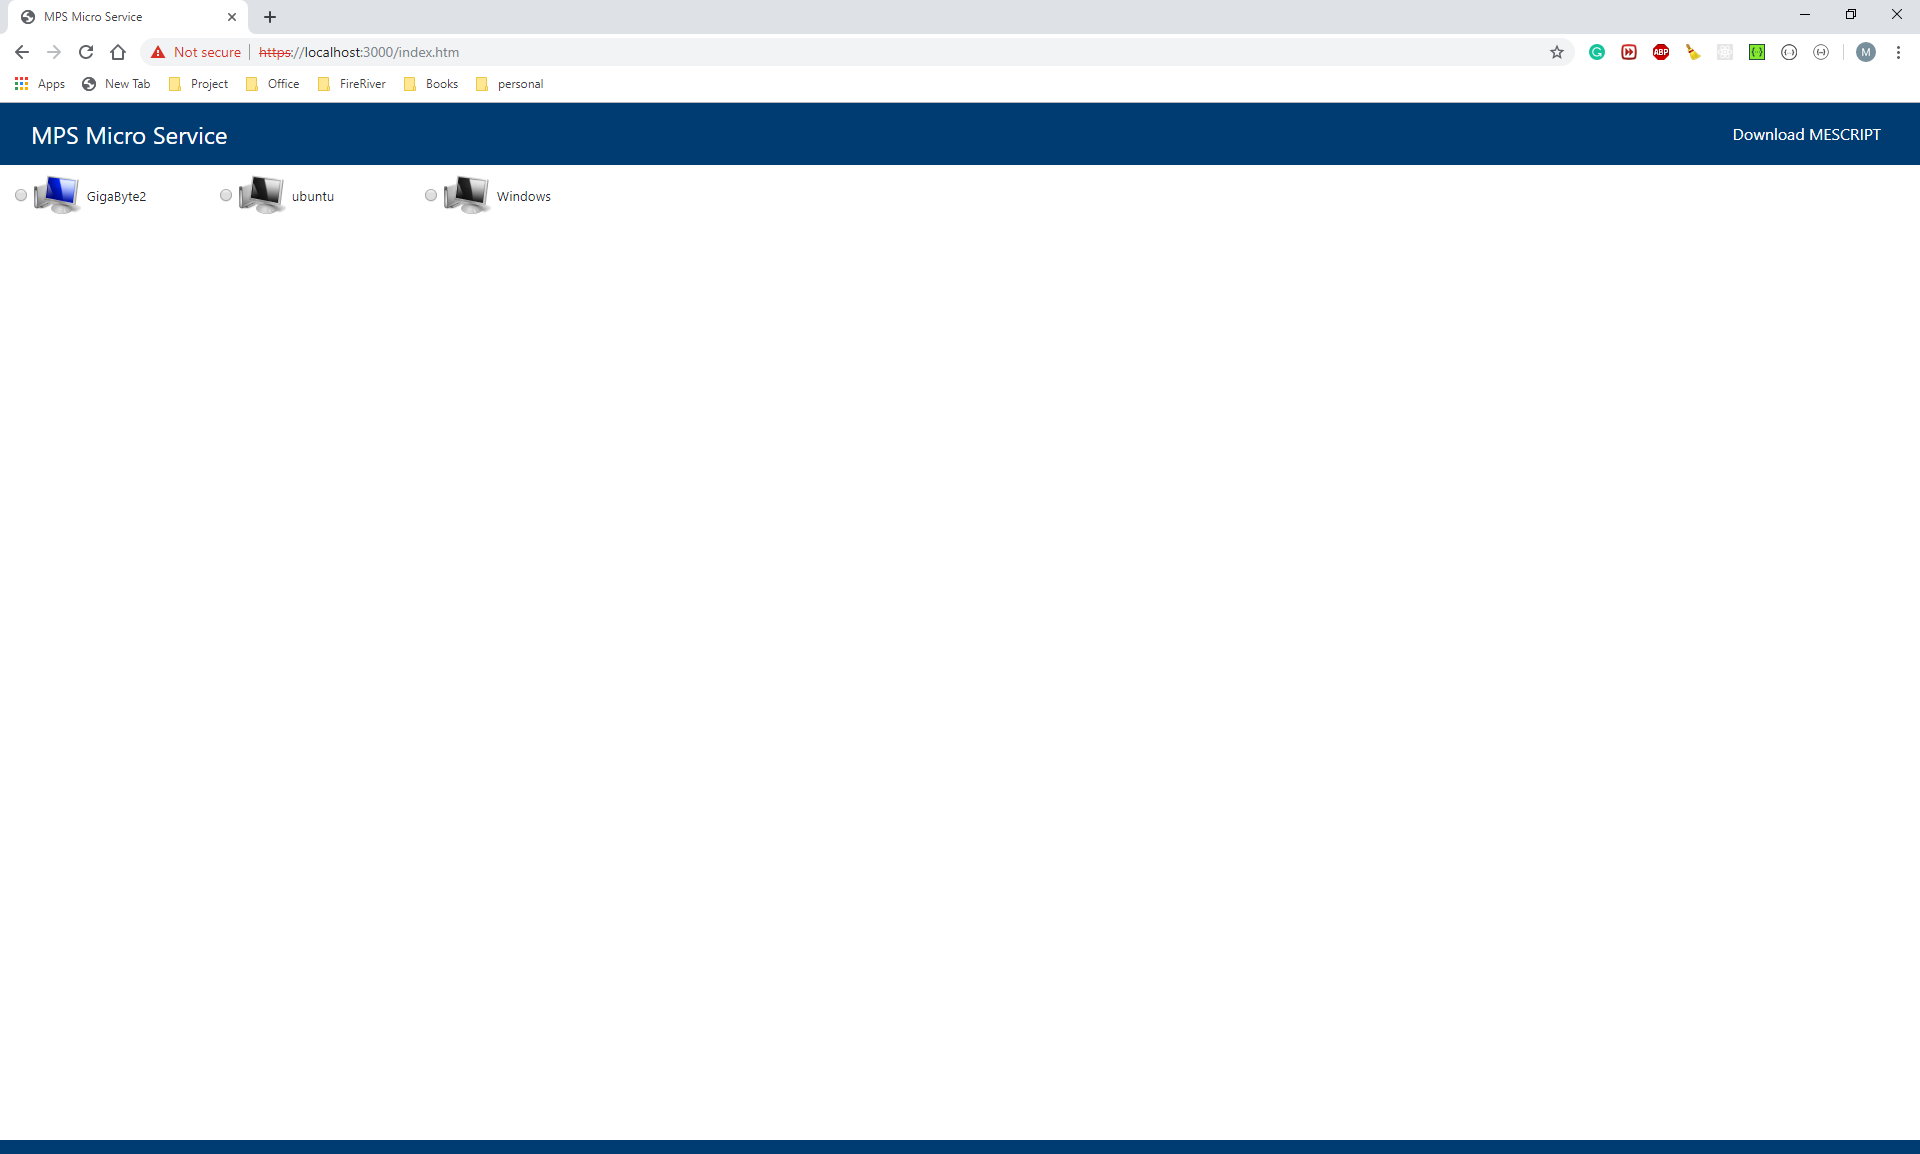
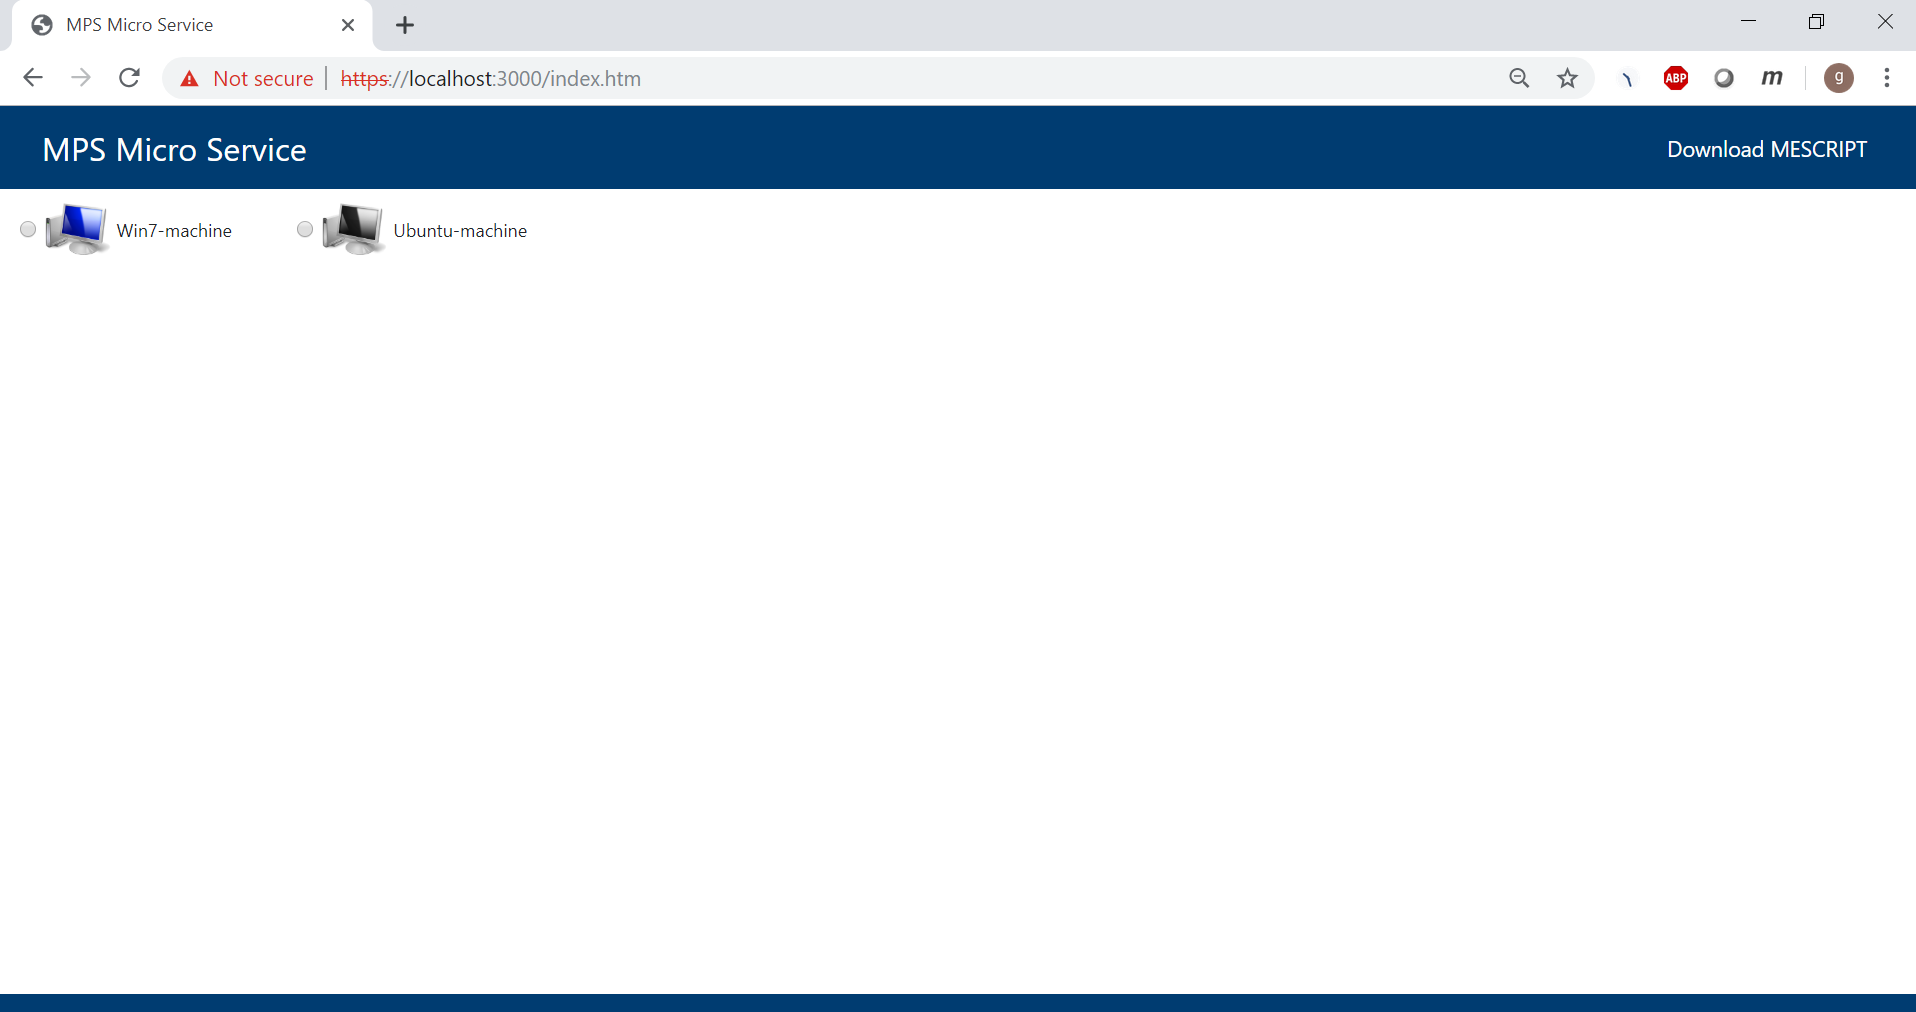
Changes to docs

Changed region(s): [[0.0, 0.0, 1.0, 0.2757], [0.0, 0.9802, 1.0, 1.0]]

diff --git a/src/controllers/Admin/AllDevicesHandler.ts b/src/controllers/Admin/AllDevicesHandler.ts
@@ -24,45 +24,48 @@ export class AllDevicesHandler implements IAdminHandler {
   // For the server version of Mesh Commander, we send the computer list without credential and insertion credentials in the stream.
   async adminAction(req: Request, res: Response) {
     try {
-        res.set({
-          "Cache-Control": "no-cache, no-store, must-revalidate",
-          Pragma: "no-cache",
-          Expires: "0"
-        });
-        var amtcreds = {};
-        try {
-          amtcreds = await this.mpsService.db.getAllAmtCredentials();
-        } catch (e) {
-          log.error(e);
+      res.set({
+        "Cache-Control": "no-cache, no-store, must-revalidate",
+        Pragma: "no-cache",
+        Expires: "0"
+      });
+      var amtcreds = {};
+      try {
+        amtcreds = await this.mpsService.db.getAllAmtCredentials();
+      } catch (e) {
+        log.error(e);
+      }
+      var list = [];
+      for (var i in this.mpsService.mpsComputerList) {
+        var entry = common.Clone(this.mpsService.mpsComputerList[i]);
+        // add MPS and AMT username properies to json
+        entry.mpsuser = amtcreds[i].mpsuser;
+        entry.amtuser = amtcreds[i].amtuser ? amtcreds[i].amtuser : this.mpsService.mpsComputerList[i].amtuser;
+        // add icon and conn properties to json
+        entry.icon = 1;
+        entry.conn = 1;
+        // add a name property to json
+        if (!entry.name) { entry.name = amtcreds[i].name; }
+        list.push(entry);
+        // remove device objects from credential json whose status is online
+        if (amtcreds[i]) {
+          delete amtcreds[i];
         }
-        var list = [];
-        for (var i in this.mpsService.mpsComputerList) {
-          this.mpsService.mpsComputerList[i].user = amtcreds[i]
-            ? amtcreds[i].amtuser
-            : "admin";
-          var entry = common.Clone(this.mpsService.mpsComputerList[i]);
-          delete entry.pass;
-          //add icon and conn
-          entry.icon = 1;
-          entry.conn = 1;
-          list.push(entry);
-          // remove from credential list all that is online
-          if (amtcreds[i]) {
-            delete amtcreds[i];
-          }
-        }
-        for (var i in amtcreds) {
-          var entry = common.Clone(amtcreds[i]);
-          delete entry.pass;
-          if (!entry.name) entry.name = i;
-          entry.host = i;
-          //add icon and conn
-          entry.icon = 1;
-          entry.conn = 0;
-          list.push(entry);
-        }
-        res.set({ "Content-Type": "application/json" });
-        return res.send(JSON.stringify(list));
+      }
+      for (var i in amtcreds) {
+        var entry = common.Clone(amtcreds[i]);
+        // delete MPS and AMT password before sending it
+        delete entry.mpspass;
+        delete entry.amtpass;
+        // add host to the entry
+        entry.host = i;
+        // add icon and conn
+        entry.icon = 1;
+        entry.conn = 0;
+        list.push(entry);
+      }
+      res.set({ "Content-Type": "application/json" });
+      return res.send(JSON.stringify(list));
     } catch (error) {
       log.error(`Exception in All devices : ${error}`);
       return res.status(500).send(ErrorResponse(500, 'Request failed while it gets all devices.'));

diff --git a/src/controllers/Admin/ConnectedDeviceHandler.ts b/src/controllers/Admin/ConnectedDeviceHandler.ts
@@ -6,51 +6,59 @@
 
 import { logger as log } from "../../utils/logger";
 import { IAdminHandler } from "../../models/IAdminHandler";
-import {Response, Request} from 'express'
+import { Response, Request } from 'express'
 import { mpsMicroservice } from "../../mpsMicroservice";
 
 const common = require("../../utils/common.js");
 
 export class ConnectedDeviceHandler implements IAdminHandler {
-  
+
   mpsService: mpsMicroservice;
   name: string;
 
   constructor(mpsService: mpsMicroservice) {
-      this.name="ConnectedDevices";
-      this.mpsService =mpsService;
+    this.name = "ConnectedDevices";
+    this.mpsService = mpsService;
   }
 
   //Get list of CIRA connected devices.
   // For the server version of Mesh Commander, we send the computer list without credential and insertion credentials in the stream.
   async adminAction(req: Request, res: Response) {
-    try{
-        res.set({
-          "Cache-Control": "no-cache, no-store, must-revalidate",
-          Pragma: "no-cache",
-          Expires: "0"
-        });
-        var amtcreds = {};
-        try {
-          amtcreds = await this.mpsService.db.getAllAmtCredentials();
-        } catch (e) {
+    try {
+      res.set({
+        "Cache-Control": "no-cache, no-store, must-revalidate",
+        Pragma: "no-cache",
+        Expires: "0"
+      });
+      var amtcreds = {};
+      try {
+        amtcreds = await this.mpsService.db.getAllAmtCredentials();
+      } catch (e) {
         log.error(e);
+      }
+      var list = [];
+      for (var i in this.mpsService.mpsComputerList) {
+        var entry = common.Clone(this.mpsService.mpsComputerList[i]);
+        // add MPS and AMT username properies to json
+        entry.mpsuser = amtcreds[i].mpsuser;
+        entry.amtuser = amtcreds[i].amtuser ? amtcreds[i].amtuser : this.mpsService.mpsComputerList[i].amtuser;
+        // add icon and conn properties to json
+        entry.icon = 1;
+        entry.conn = 1;
+        // add a name property to json
+        if (!entry.name) { entry.name = amtcreds[i].name; }
+        list.push(entry);
+        // remove device objects from credential json whose status is online
+        if (amtcreds[i]) {
+          delete amtcreds[i];
         }
-        var list = [];
-        for (var i in this.mpsService.mpsComputerList) {
-          this.mpsService.mpsComputerList[i].user = amtcreds[i]
-            ? amtcreds[i].amtuser
-            : "admin";
-          var entry = common.Clone(this.mpsService.mpsComputerList[i]);
-          delete entry.pass;
-          list.push(entry);
-        }
-        res.set({
-          "Content-Type": "application/json"
-        });
-        res.send(JSON.stringify(list));
-    }catch(error){
-     log.error(`Exception in Connected devices: ${error}`);
+      }
+      res.set({
+        "Content-Type": "application/json"
+      });
+      res.send(JSON.stringify(list));
+    } catch (error) {
+      log.error(`Exception in Connected devices: ${error}`);
     }
   }
 }

diff --git a/src/server/mpsserver.ts b/src/server/mpsserver.ts
@@ -710,8 +710,7 @@ export class mpsServer{
         var computerEntry = {
           name: undefined,
           host: undefined,
-          amtuser: undefined,
-          amtpass: undefined
+          amtuser: undefined
         };
         if (socket.tag.host === host) return; // Nothing to change
         this.debug(3, "Change hostname to ", host);
@@ -725,8 +724,7 @@ export class mpsServer{
           computerEntry = {
             name: host,
             host: socket.tag.nodeid,
-            amtuser: "admin",
-            amtpass: null
+            amtuser: "admin"
           };
     
           this.mpsService.mpsComputerList[socket.tag.nodeid] = computerEntry;

diff --git a/docs/methods/alldevices.md b/docs/methods/alldevices.md
@@ -19,22 +19,18 @@ Click [here](types.md) for supported input and output types.
 ``` yaml
 [
     {
-        "name": "ubuntu",
+        "name": "Win7-machine",
         "mpsuser": "standalone",
-        "mpspass": "P@ssw0rd",
         "amtuser": "admin",
-        "amtpass": "P@ssw0rd",
-        "host": "aa745e97-6416-4495-9b34-54b2030b1193",
+        "host": "8dad96cb-c3db-11e6-9c43-bc0000d20000",
         "icon": 1,
-        "conn": 0
+        "conn": 1
     },
     {
-        "name": "Windows",
-        "mpsuser": "standalone",
-        "mpspass": "P@ssw0rd",
+        "name": "Ubuntu-machine",
+        "mpsuser": "xenial",
         "amtuser": "admin",
-        "amtpass": "P@ssw0rd",
-        "host": "4bac9510-04a6-4321-bae2-d45ddf07b684",
+        "host": "bf49cf00-9164-11e4-952b-b8aeed7ec594",
         "icon": 1,
         "conn": 0
     }

diff --git a/docs/release-notes.md b/docs/release-notes.md
@@ -3,8 +3,8 @@
 ## MPS V1
 MPS server migrated to typescript project from traditional node js. All the REST API interfaces are changed to new interfaces. Now, there are four end points which are categarized based on the functionality.
 
-* /Admin - for all the admin user operations like downloading mescript, root certificate, disconnected device etc.
-* /AMT - for all AMT operations
+* /admin - for all the admin user operations like downloading mescript, root certificate, disconnected device etc.
+* /amt - for all AMT operations
 * /relay - for KVM operations
 * /notifications - fo updating the device connections.
 

diff --git a/docs/methods/connecteddevices.md b/docs/methods/connecteddevices.md
@@ -19,14 +19,12 @@ Click [here](types.md) for supported input and output types.
 ``` yaml
 [
     {
-        "name": "ubuntu",
+        "name": "Win7-machine",
         "mpsuser": "standalone",
-        "mpspass": "P@ssw0rd",
         "amtuser": "admin",
-        "amtpass": "P@ssw0rd",
-        "host": "aa745e97-6416-4495-9b34-54b2030b1193",
+        "host": "8dad96cb-c3db-11e6-9c43-bc0000d20000",
         "icon": 1,
-        "conn": 0
+        "conn": 1
     }
 ]
 ```
